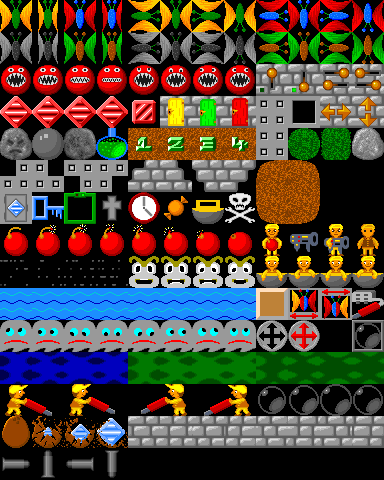
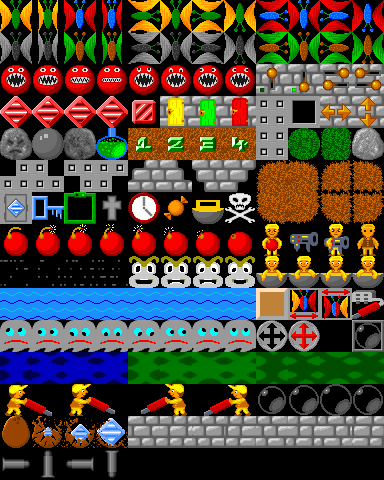
improved graphics for digging crumbled BD style sloped sand

Changed region(s): [[0.7188, 0.3125, 1.0, 0.4688], [0.6875, 0.3125, 0.8125, 0.3438], [0.6562, 0.3438, 0.6875, 0.4375]]

diff --git a/src/conf_gfx.c b/src/conf_gfx.c
@@ -660,26 +660,34 @@ struct ConfigInfo image_config[] =
   { "bdx_sand_sloped_up_left.xpos",			"8"				},
   { "bdx_sand_sloped_up_left.ypos",			"5"				},
   { "bdx_sand_sloped_up_left.frames",			"1"				},
-  { "bdx_sand_sloped_up_left.CRUMBLED",			UNDEFINED_FILENAME		},
-  { "bdx_sand_sloped_up_left.CRUMBLED.clone_from",	"bdx_sand.CRUMBLED"		},
+  { "bdx_sand_sloped_up_left.CRUMBLED",			"RocksBD.png"			},
+  { "bdx_sand_sloped_up_left.CRUMBLED.xpos",		"10"				},
+  { "bdx_sand_sloped_up_left.CRUMBLED.ypos",		"5"				},
+  { "bdx_sand_sloped_up_left.CRUMBLED.frames",		"1"				},
   { "bdx_sand_sloped_up_right",				"RocksBD.png"			},
   { "bdx_sand_sloped_up_right.xpos",			"9"				},
   { "bdx_sand_sloped_up_right.ypos",			"5"				},
   { "bdx_sand_sloped_up_right.frames",			"1"				},
-  { "bdx_sand_sloped_up_right.CRUMBLED",		UNDEFINED_FILENAME		},
-  { "bdx_sand_sloped_up_right.CRUMBLED.clone_from",	"bdx_sand.CRUMBLED"		},
+  { "bdx_sand_sloped_up_right.CRUMBLED",		"RocksBD.png"			},
+  { "bdx_sand_sloped_up_right.CRUMBLED.xpos",		"11"				},
+  { "bdx_sand_sloped_up_right.CRUMBLED.ypos",		"5"				},
+  { "bdx_sand_sloped_up_right.CRUMBLED.frames",		"1"				},
   { "bdx_sand_sloped_down_left",			"RocksBD.png"			},
   { "bdx_sand_sloped_down_left.xpos",			"8"				},
   { "bdx_sand_sloped_down_left.ypos",			"6"				},
   { "bdx_sand_sloped_down_left.frames",			"1"				},
-  { "bdx_sand_sloped_down_left.CRUMBLED",		UNDEFINED_FILENAME		},
-  { "bdx_sand_sloped_down_left.CRUMBLED.clone_from",	"bdx_sand.CRUMBLED"		},
+  { "bdx_sand_sloped_down_left.CRUMBLED",		"RocksBD.png"			},
+  { "bdx_sand_sloped_down_left.CRUMBLED.xpos",		"10"				},
+  { "bdx_sand_sloped_down_left.CRUMBLED.ypos",		"6"				},
+  { "bdx_sand_sloped_down_left.CRUMBLED.frames",	"1"				},
   { "bdx_sand_sloped_down_right",			"RocksBD.png"			},
   { "bdx_sand_sloped_down_right.xpos",			"9"				},
   { "bdx_sand_sloped_down_right.ypos",			"6"				},
   { "bdx_sand_sloped_down_right.frames",		"1"				},
-  { "bdx_sand_sloped_down_right.CRUMBLED",		UNDEFINED_FILENAME		},
-  { "bdx_sand_sloped_down_right.CRUMBLED.clone_from",	"bdx_sand.CRUMBLED"		},
+  { "bdx_sand_sloped_down_right.CRUMBLED",		"RocksBD.png"			},
+  { "bdx_sand_sloped_down_right.CRUMBLED.xpos",		"11"				},
+  { "bdx_sand_sloped_down_right.CRUMBLED.ypos",		"6"				},
+  { "bdx_sand_sloped_down_right.CRUMBLED.frames",	"1"				},
 
   { "bdx_sand_glued",					UNDEFINED_FILENAME		},
   { "bdx_sand_glued.clone_from",			"bdx_sand"			},

diff --git a/src/game_bd/bd_graphics.c b/src/game_bd/bd_graphics.c
@@ -599,16 +599,23 @@ static int get_dirt_element(int element, int dir, boolean crumbled)
       return (crumbled ? O_DIRT_GLUED_CRUMBLED : O_DIRT_GLUED);
 
     case O_DIRT_SLOPED_UP_RIGHT:
-      return (crumbled ? O_DIRT_SLOPED_UP_RIGHT_CRUMBLED : O_DIRT_SLOPED_UP_RIGHT);
-
     case O_DIRT_SLOPED_UP_LEFT:
-      return (crumbled ? O_DIRT_SLOPED_UP_LEFT_CRUMBLED : O_DIRT_SLOPED_UP_LEFT);
-
     case O_DIRT_SLOPED_DOWN_LEFT:
-      return (crumbled ? O_DIRT_SLOPED_DOWN_LEFT_CRUMBLED : O_DIRT_SLOPED_DOWN_LEFT);
-
     case O_DIRT_SLOPED_DOWN_RIGHT:
-      return (crumbled ? O_DIRT_SLOPED_DOWN_RIGHT_CRUMBLED : O_DIRT_SLOPED_DOWN_RIGHT);
+      return (crumbled ?
+              (dir == GD_MV_LEFT  ? O_DIRT_DIGGING_LEFT_CRUMBLED  :
+               dir == GD_MV_RIGHT ? O_DIRT_DIGGING_RIGHT_CRUMBLED :
+               dir == GD_MV_UP    ? O_DIRT_DIGGING_UP_CRUMBLED    :
+               dir == GD_MV_DOWN  ? O_DIRT_DIGGING_DOWN_CRUMBLED  :
+               element == O_DIRT_SLOPED_UP_RIGHT   ? O_DIRT_SLOPED_UP_RIGHT_CRUMBLED   :
+               element == O_DIRT_SLOPED_UP_LEFT    ? O_DIRT_SLOPED_UP_LEFT_CRUMBLED    :
+               element == O_DIRT_SLOPED_DOWN_LEFT  ? O_DIRT_SLOPED_DOWN_LEFT_CRUMBLED  :
+               element == O_DIRT_SLOPED_DOWN_RIGHT ? O_DIRT_SLOPED_DOWN_RIGHT_CRUMBLED : element) :
+
+              (dir == GD_MV_LEFT  ? O_DIRT_DIGGING_LEFT  :
+               dir == GD_MV_RIGHT ? O_DIRT_DIGGING_RIGHT :
+               dir == GD_MV_UP    ? O_DIRT_DIGGING_UP    :
+               dir == GD_MV_DOWN  ? O_DIRT_DIGGING_DOWN  : element));
 
     case O_BITER_SWITCH_1:
       return (crumbled ? O_BITER_SWITCH_1_CRUMBLED : O_BITER_SWITCH_1);
